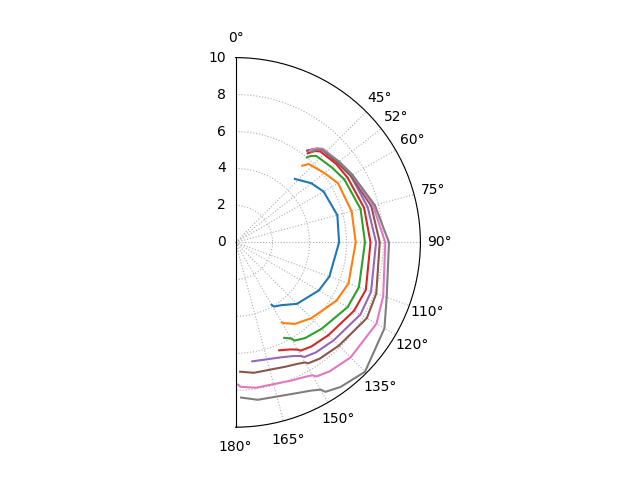
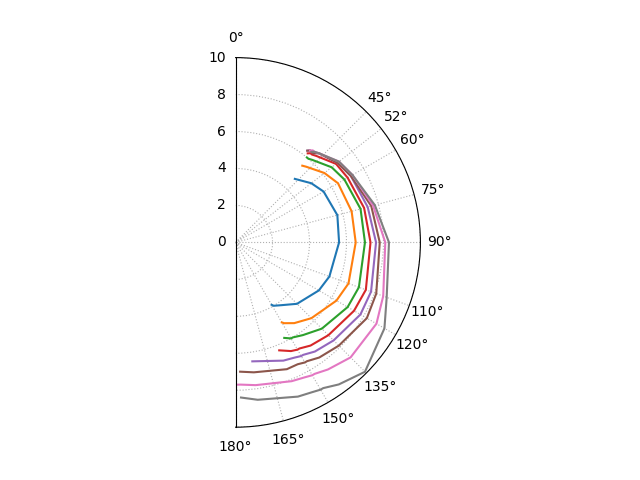
feat: improve interpolation
Interpolate according to the spacing of the angles instead of assuming an
equidistant index.

Changed region(s): [[0.375, 0.6562, 0.5625, 0.8438], [0.4688, 0.3125, 0.5312, 0.375]]

diff --git a/src/plot_speeds.py b/src/plot_speeds.py
@@ -7,14 +7,8 @@ import pandas as pd
 from great_tables import GT
 
 
-def interpolate_beat_and_run(boat_speeds):
-    stripped_speeds = list(boat_speeds)
-    trailing_nans = []
-
-    while stripped_speeds[-1] is np.nan:
-        trailing_nans.append(stripped_speeds.pop())
-
-    return pd.Series(stripped_speeds).interpolate().tolist() + trailing_nans
+def interpolate_beat_and_run(sparse_speeds: pd.DataFrame):
+    return sparse_speeds.interpolate(method='index', axis=1, limit_area='inside').round(1)
 
 # Read data
 with open('../output/avg_x332.json') as avg_speeds:
@@ -22,7 +16,7 @@ with open('../output/avg_x332.json') as avg_speeds:
 
 # Prepare data structures
 wind_angles = np.unique(np.rint(data['beat_angle'] + data['angles'] + data['run_angle']).astype(int))
-boat_speeds = pd.DataFrame(index=data['speeds'], columns=wind_angles)
+boat_speeds = pd.DataFrame(index=data['speeds'], columns=wind_angles, dtype=np.float64)
 
 # Construct data frame from raw values
 for angle in data['angles']:
@@ -49,7 +43,7 @@ print(boat_speeds)
 fig, ax = plt.subplots(subplot_kw={'projection': 'polar'})
 fig.canvas.manager.set_window_title('X-332 Polar Diagram')
 
-boat_speeds.apply(lambda speed_at_angle: ax.plot(np.deg2rad(wind_angles), interpolate_beat_and_run(speed_at_angle)), axis=1)
+interpolate_beat_and_run(boat_speeds).apply(lambda speed_at_angle: ax.plot(np.deg2rad(wind_angles), speed_at_angle), axis=1)
 
 ax.set_theta_direction(-1)  # clockwise
 ax.set_theta_offset(np.pi / 2)  # rotate by 90 deg
